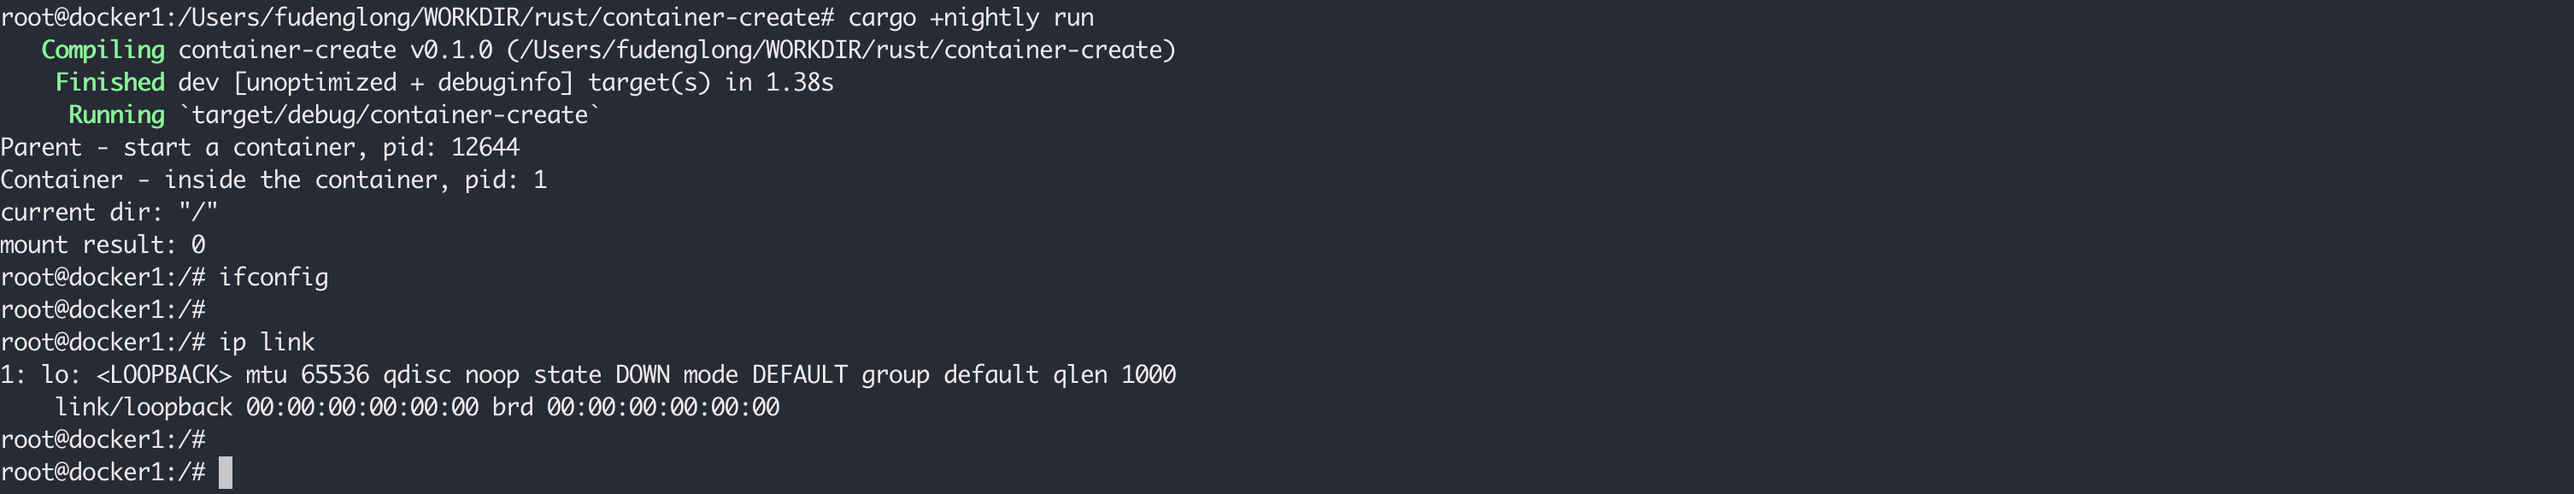
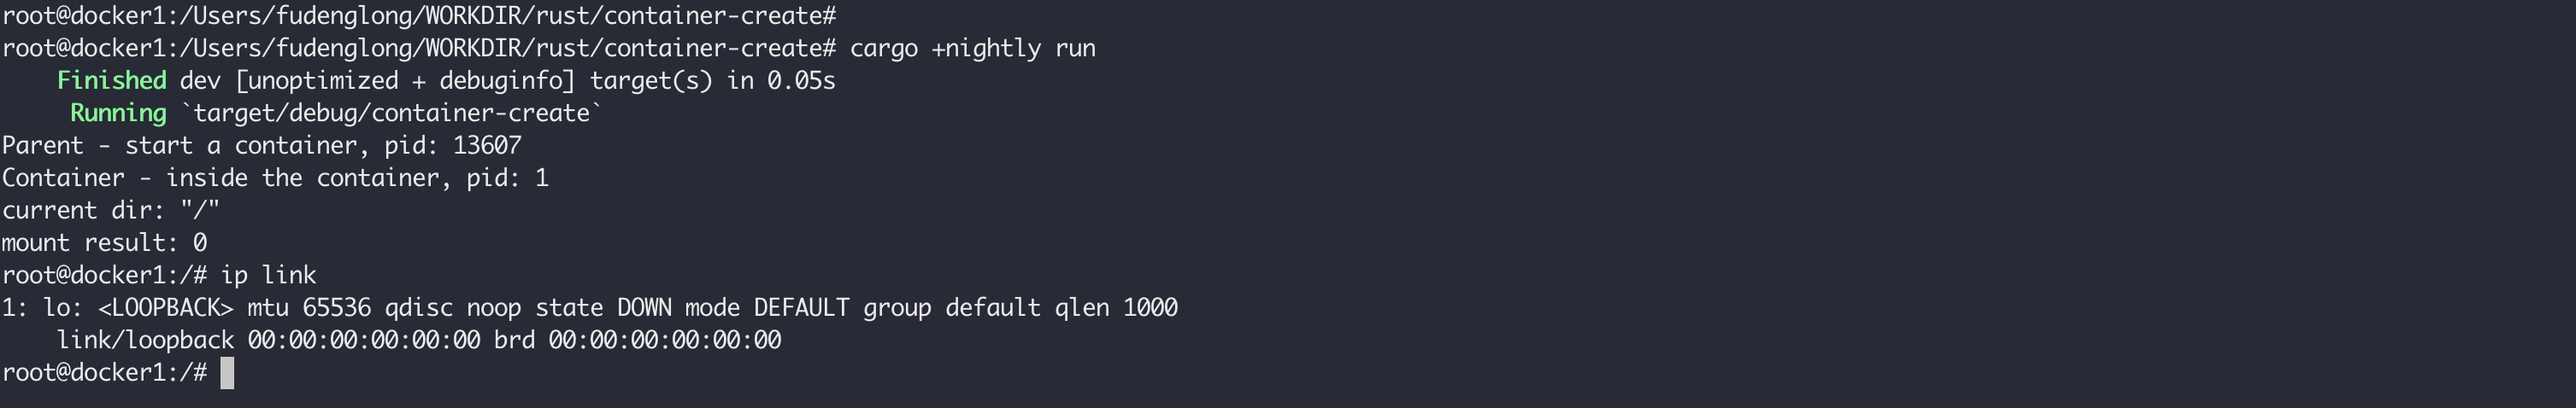
create container with linux origin tech

Changed region(s): [[0.0, 0.0, 0.4681, 0.3808], [0.0, 0.41, 0.4681, 0.9958]]

diff --git a/source/_posts/Docker/create-contaienr-with-linux-original-tech.md b/source/_posts/Docker/create-contaienr-with-linux-original-tech.md
@@ -613,8 +613,57 @@ let pid = libc::clone(container_main, stack_top, flags, ptr::null_mut());
 
 ![容器内没有网络设备](rust-net-no-net.png)
 
-这样的话，我们的容器是没法直接跟外部通信的，我们需要给我们新建的容器添加网卡，设置IP，参考单机容器通信网络，通过下面的方式给我们的容器添加网络设备：
+这样的话，我们的容器是没法直接跟外部通信的，我们需要给我们新建的容器添加网卡，设置IP，参考单机容器通信网络，我们给我们的容器赋予和外界通信的能力。首先在宿主机上，查看我们容器的PID，根据父进程 `pid：13607` 进行查看：
 
+> pstree -a -p 13607
+
+```
+root@docker1:/home/ubuntu# pstree -a -p 13607
+container-creat,13607
+  └─bash,13609
+```
+
+在宿主机上执行下面的命令，创建一对 `veth` 设备：
+
+> ip link add veth-host type veth peer name ceth-container
+
+将 `ceth-container` 添加到我们的容器中：
+
+> ip link set ceth-container netns 13609
+
+执行下面的命令，启用 `veth-host`：
+
+> ip link set veth-host up
+
+执行下面的命令给 `veth-host` 添加IP：
+
+> ip addr add 172.17.0.11/16 dev veth-host
+
+将 `veth-host` 添加到我们的 `docker0` 网桥上，这样它和我们通过 `docker` 创建的容器就可以互通了：
+
+> ip link set veth-host master docker0
+
+所有上面在主机上的操作如下如所示：
+
+![主机上操作添加网络设备](host-add-container-link-dev.png)
+
+然后我们在我们的容器中执行下面的命令，启用`lo`，`ceth-container`，以及为 `ceth-container` 设置IP：
+
+> ip link set lo up
+> ip link set ceth-container up
+> ip addr add 172.17.0.12/16 dev ceth-container
+
+所有在容器中的操作如下图所示：
+
+![容器添加网络设备](container-add-container-link-dev.png)
+
+这个时候，假如我们在宿主机有这样一个通过 `docker` 启动的容器：
+
+![Docker Ubuntu容器](host-docker-container.png)
+
+然后在我们手动创建的容器中使用`ping`命令测试连通性，它肯定是联通的：
+
+![和docker创建的容器联通](container-add-link.png)
 
 ### 参考链接
 
@@ -626,3 +675,5 @@ let pid = libc::clone(container_main, stack_top, flags, ptr::null_mut());
 6. [Building a container by hand using namespaces: The mount namespace](https://www.redhat.com/sysadmin/mount-namespaces)
 7. [容器工作原理简述](https://www.rondochen.com/how-containers-work/#pivot-root)
 8. [Container Runtime in Rust — Part I](https://itnext.io/container-runtime-in-rust-part-i-7bd9a434c50a)
+9. [How Container Networking Works - Building a Linux Bridge Network From Scratch](https://labs.iximiuz.com/tutorials/container-networking-from-scratch)
+10. [Linux setup default gateway with route command](https://www.cyberciti.biz/faq/linux-setup-default-gateway-with-route-command/)
